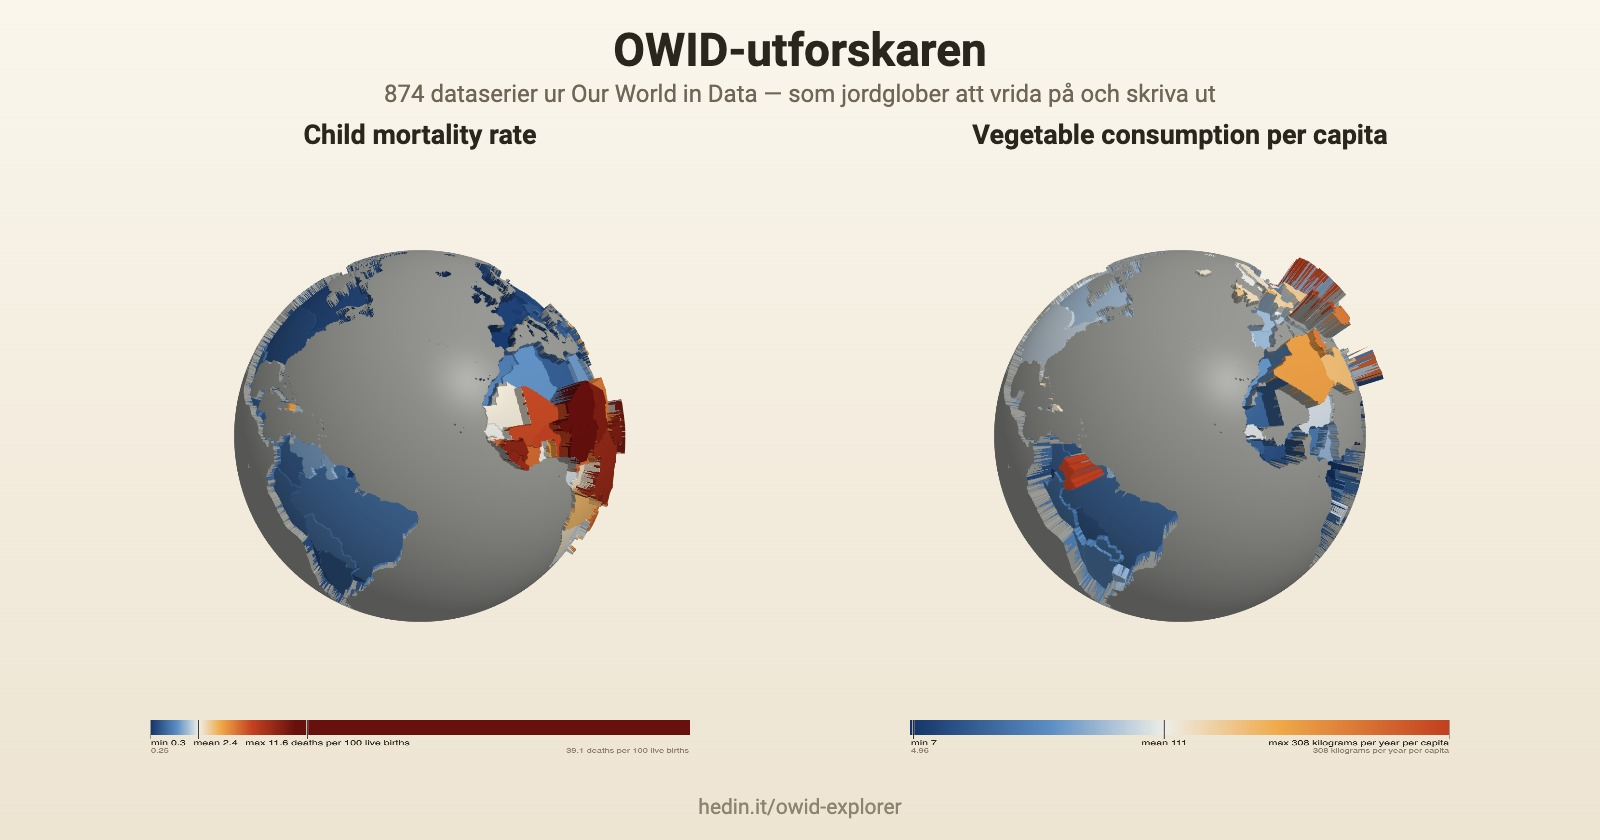
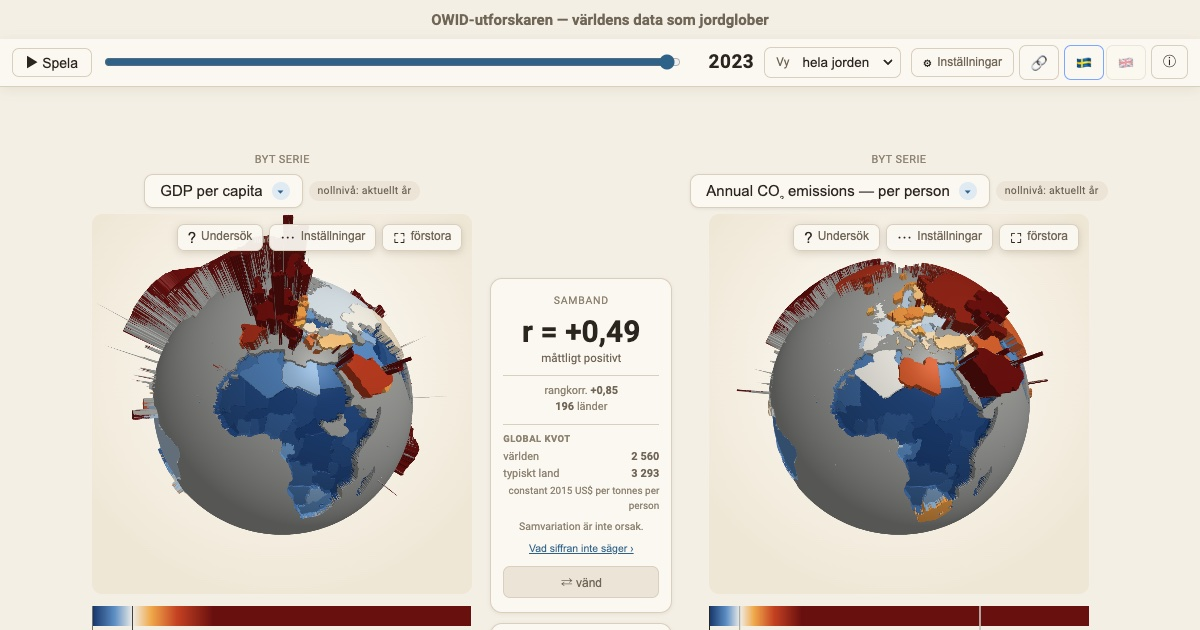
Ny preview (startparet BNP/CO2, Europa/Afrika)

Changed region(s): [[0.0617, 0.2413, 0.925, 1.0], [0.0, 0.0, 0.9558, 0.181], [0.4625, 0.4524, 0.4933, 0.4825]]

diff --git a/web/index.html b/web/index.html
@@ -10,8 +10,8 @@
 <meta property="og:description" content="Bläddra i Our World in Data efter ämne och se varje serie som en jordglob. Ladda ner för 3D-utskrift.">
 <meta property="og:url" content="https://hedin.it/owid-explorer/">
 <meta property="og:image" content="https://hedin.it/owid-explorer/preview.jpg">
-<meta property="og:image:width" content="1600">
-<meta property="og:image:height" content="840">
+<meta property="og:image:width" content="1200">
+<meta property="og:image:height" content="630">
 <meta name="twitter:card" content="summary_large_image">
 <meta name="twitter:title" content="OWID-utforskaren — världens data som jordglober">
 <meta name="twitter:description" content="874 dataserier ur Our World in Data som jordglober. Bläddra efter ämne, jämför två i taget, ladda ner för 3D-utskrift.">
